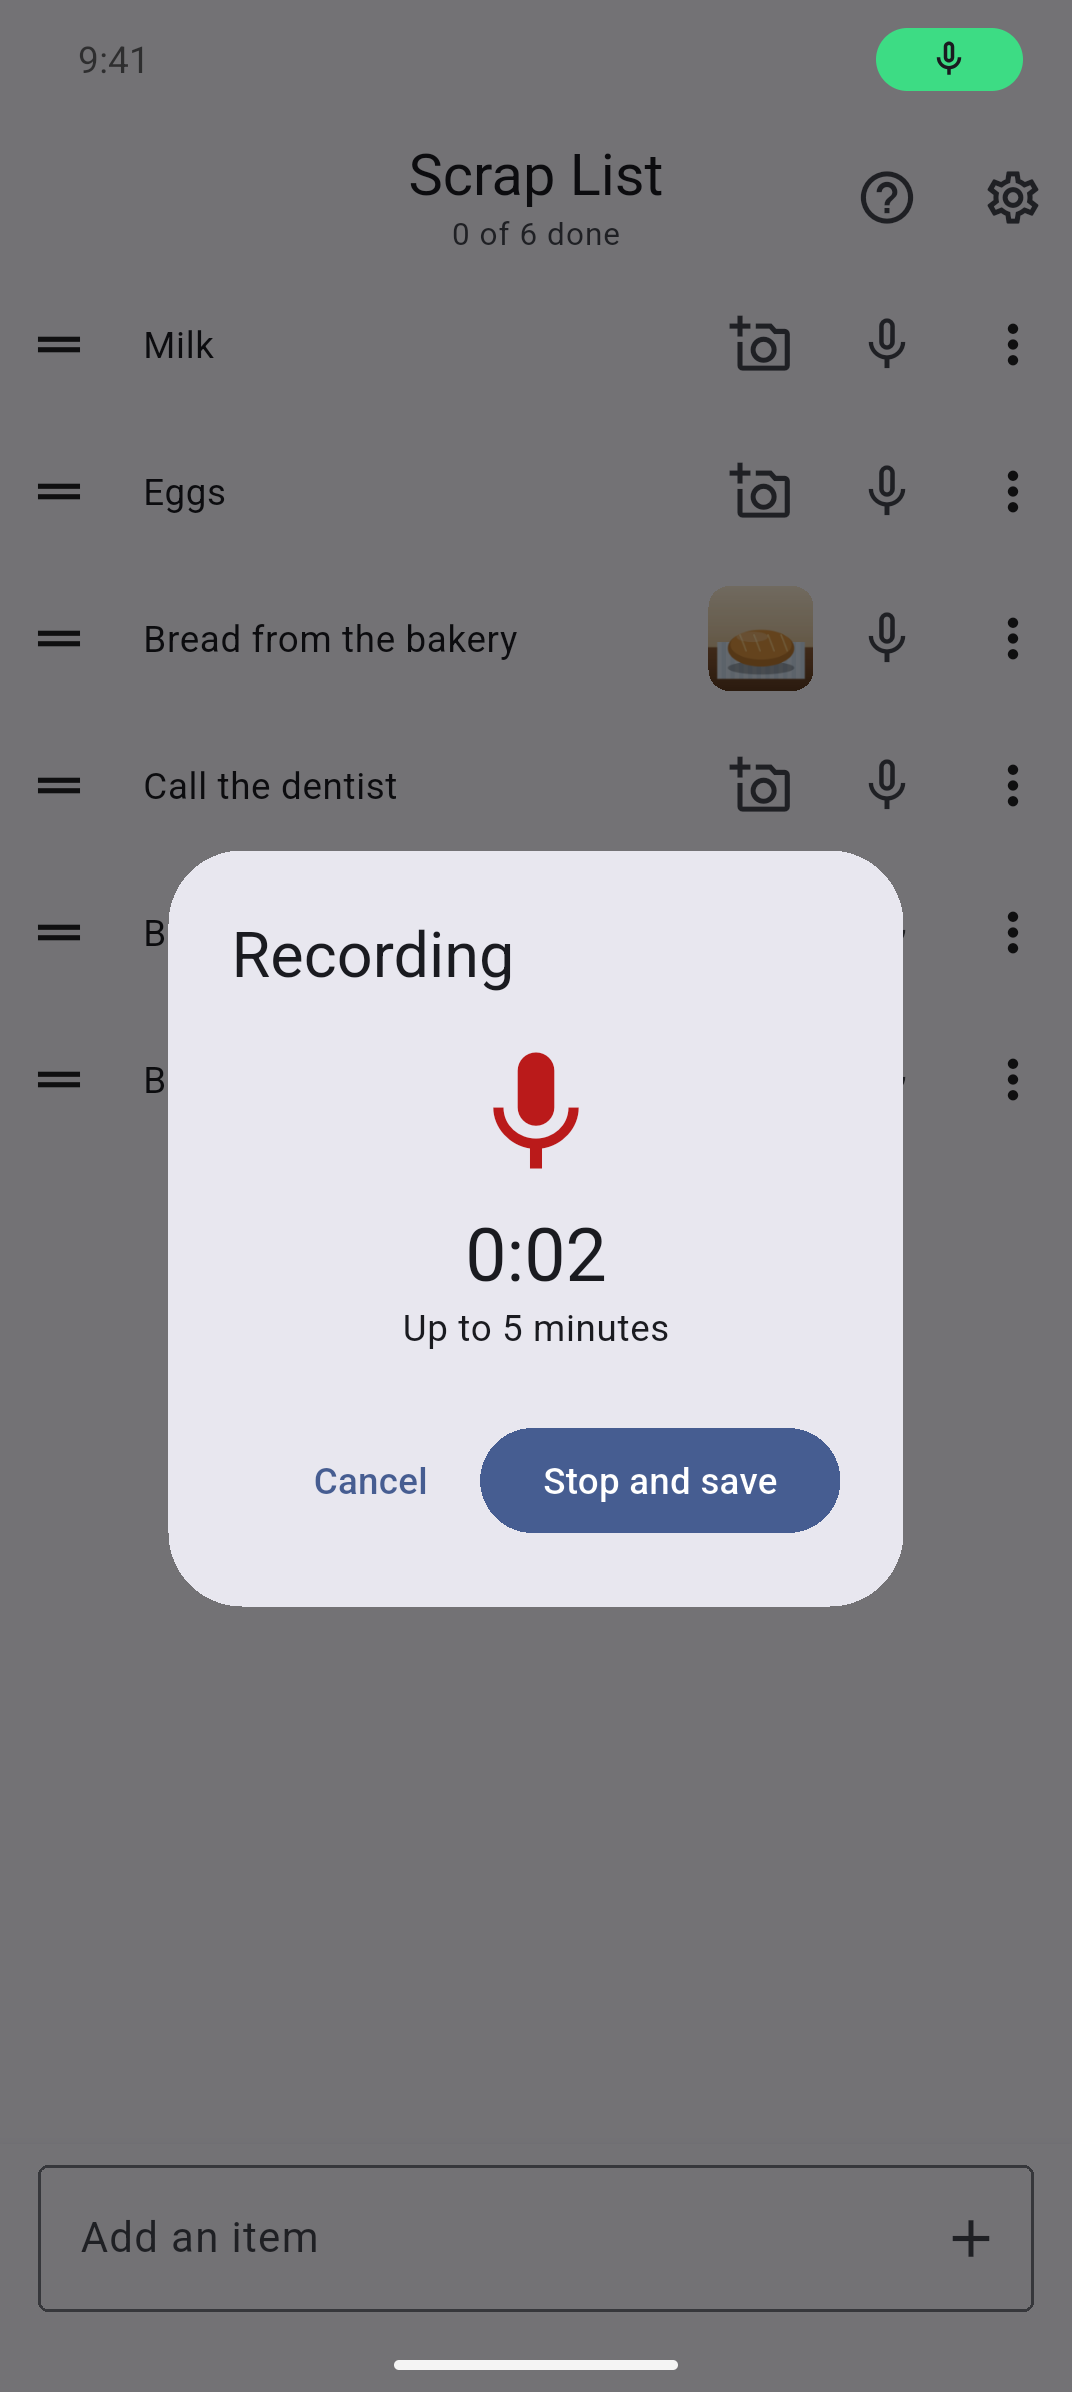
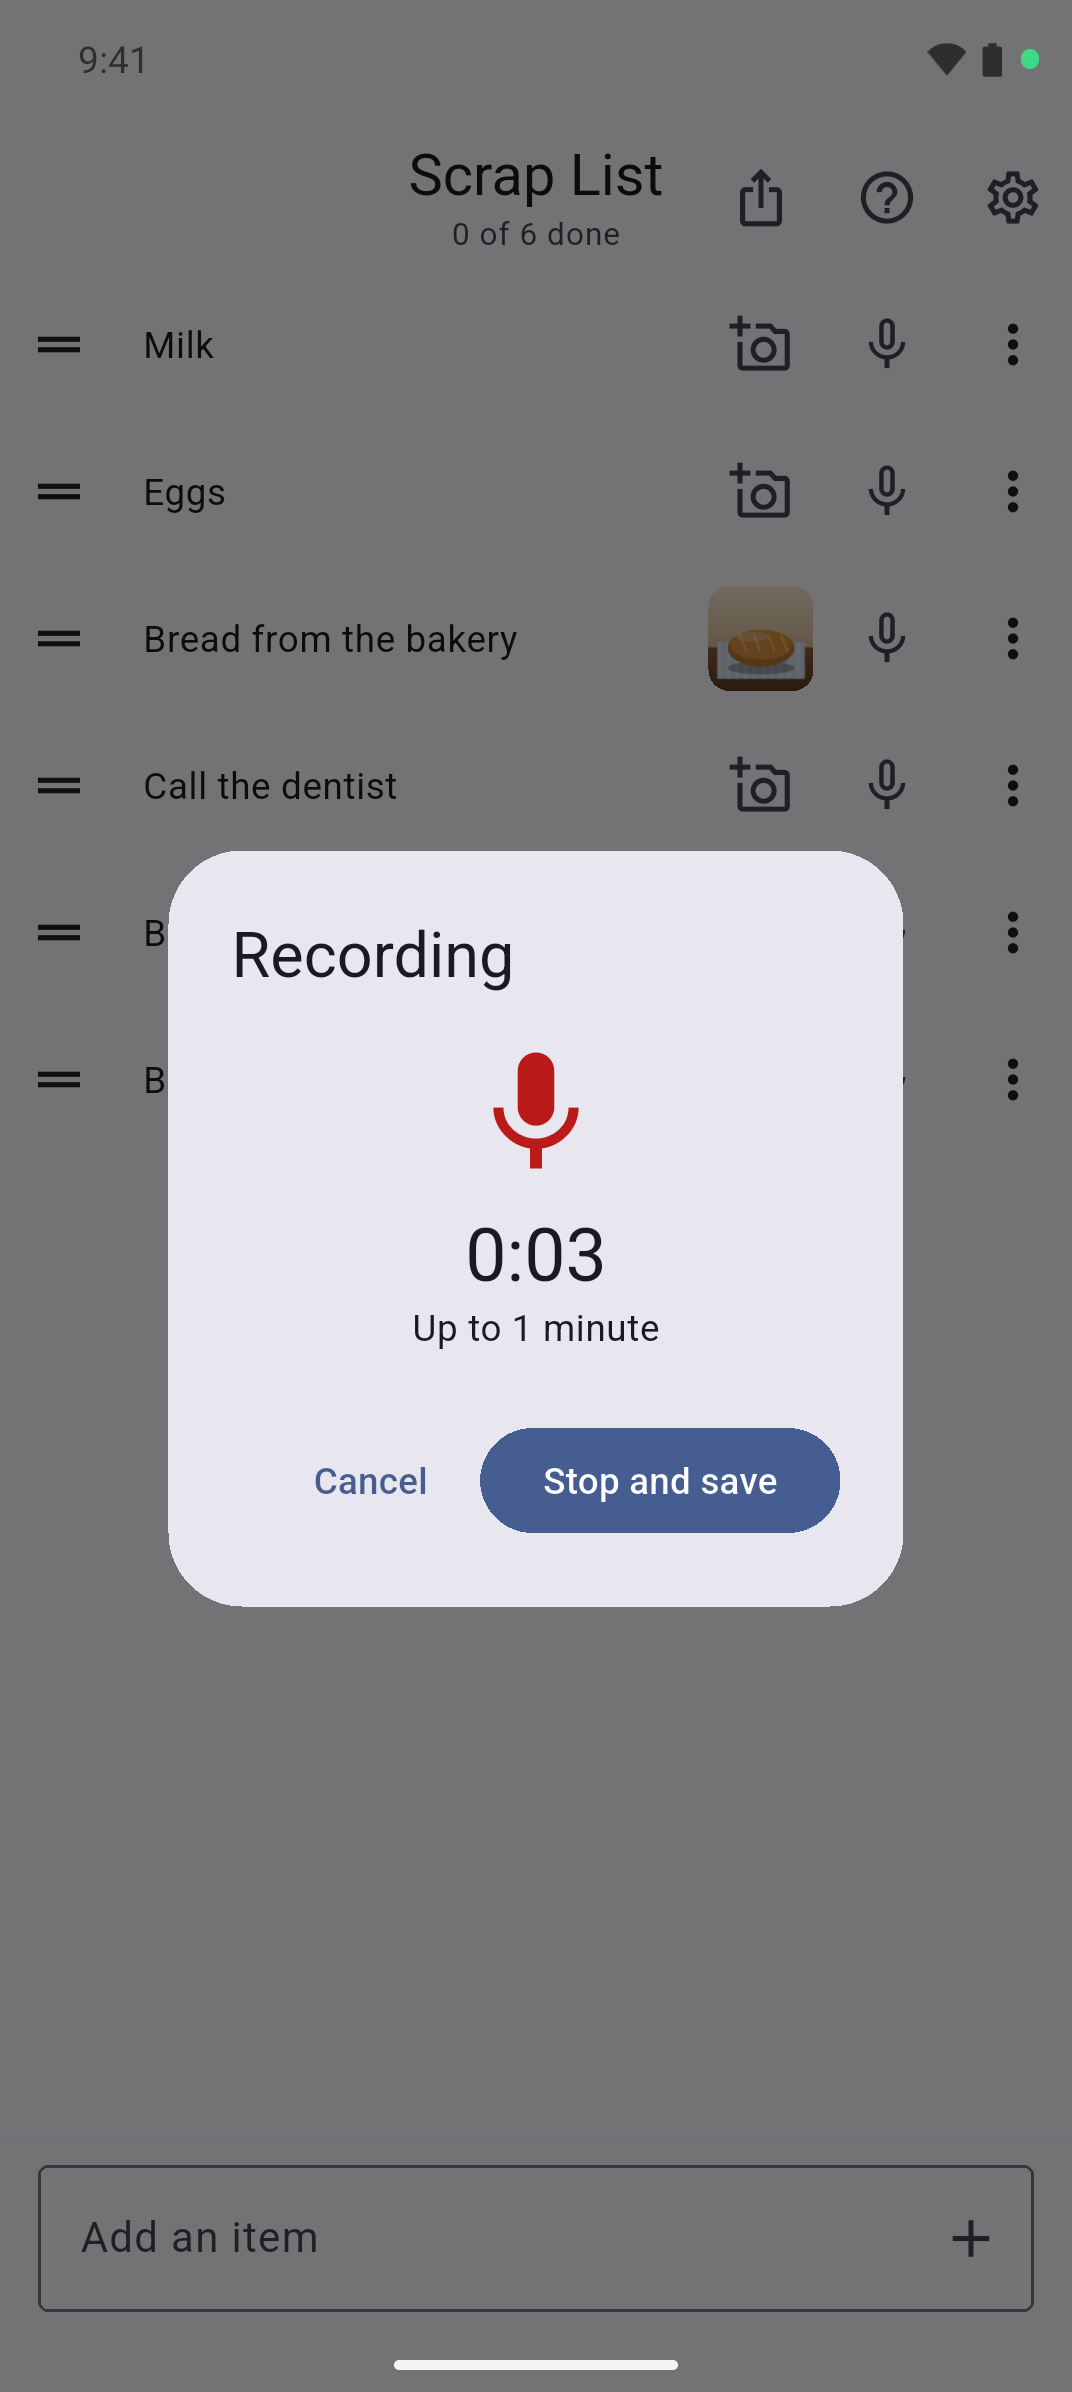
Say "No Ads!" again and cut voice recordings to 1 minute
- App page: "No account. No network. No Ads!"
- Voice recordings are now up to 1 minute (text, picture description and
  the recording screenshot updated)

diff --git a/index.html b/index.html
@@ -26,10 +26,10 @@
     <img src="assets/phone-1-list.png" alt="A list of six items with two struck through and one pinned. The title says 2 of 6 done." width="1072" height="2392">
     <img src="assets/phone-2-dark.png" alt="The same list in the dark theme." width="1072" height="2392">
     <img src="assets/phone-3-photo.png" alt="A photo of a loaf of bread attached to the item Bread from the bakery, shown big over the list." width="1072" height="2392">
-    <img src="assets/phone-4-voice.png" alt="Recording a voice memo for an item: a Recording box with a timer, the words Up to 5 minutes, and a Stop and save button." width="1072" height="2392">
+    <img src="assets/phone-4-voice.png" alt="Recording a voice memo for an item: a Recording box with a timer, the words Up to 1 minute, and a Stop and save button." width="1072" height="2392">
   </div>
 
-  <p><strong>No account. No network.</strong> Your list stays on your phone.</p>
+  <p><strong>No account. No network. No Ads!</strong> Your list stays on your phone.</p>
 
   <h2>Tons of features!</h2>
   <ul>
@@ -64,7 +64,7 @@ Batteries</pre>
   <p>Share pictures, text, or a link from other apps! Just tap Share and choose Scrap List to add it directly to your list!</p>
 
   <h2>Pictures and recordings</h2>
-  <p>Attach a photo or a short voice recording (up to 5 minutes) to any item!</p>
+  <p>Attach a photo or a short voice recording (up to 1 minute) to any item!</p>
 
   <h2>Home-screen widget</h2>
   <p>Put your list on the home screen! Tap an item there to strike it through!</p>
